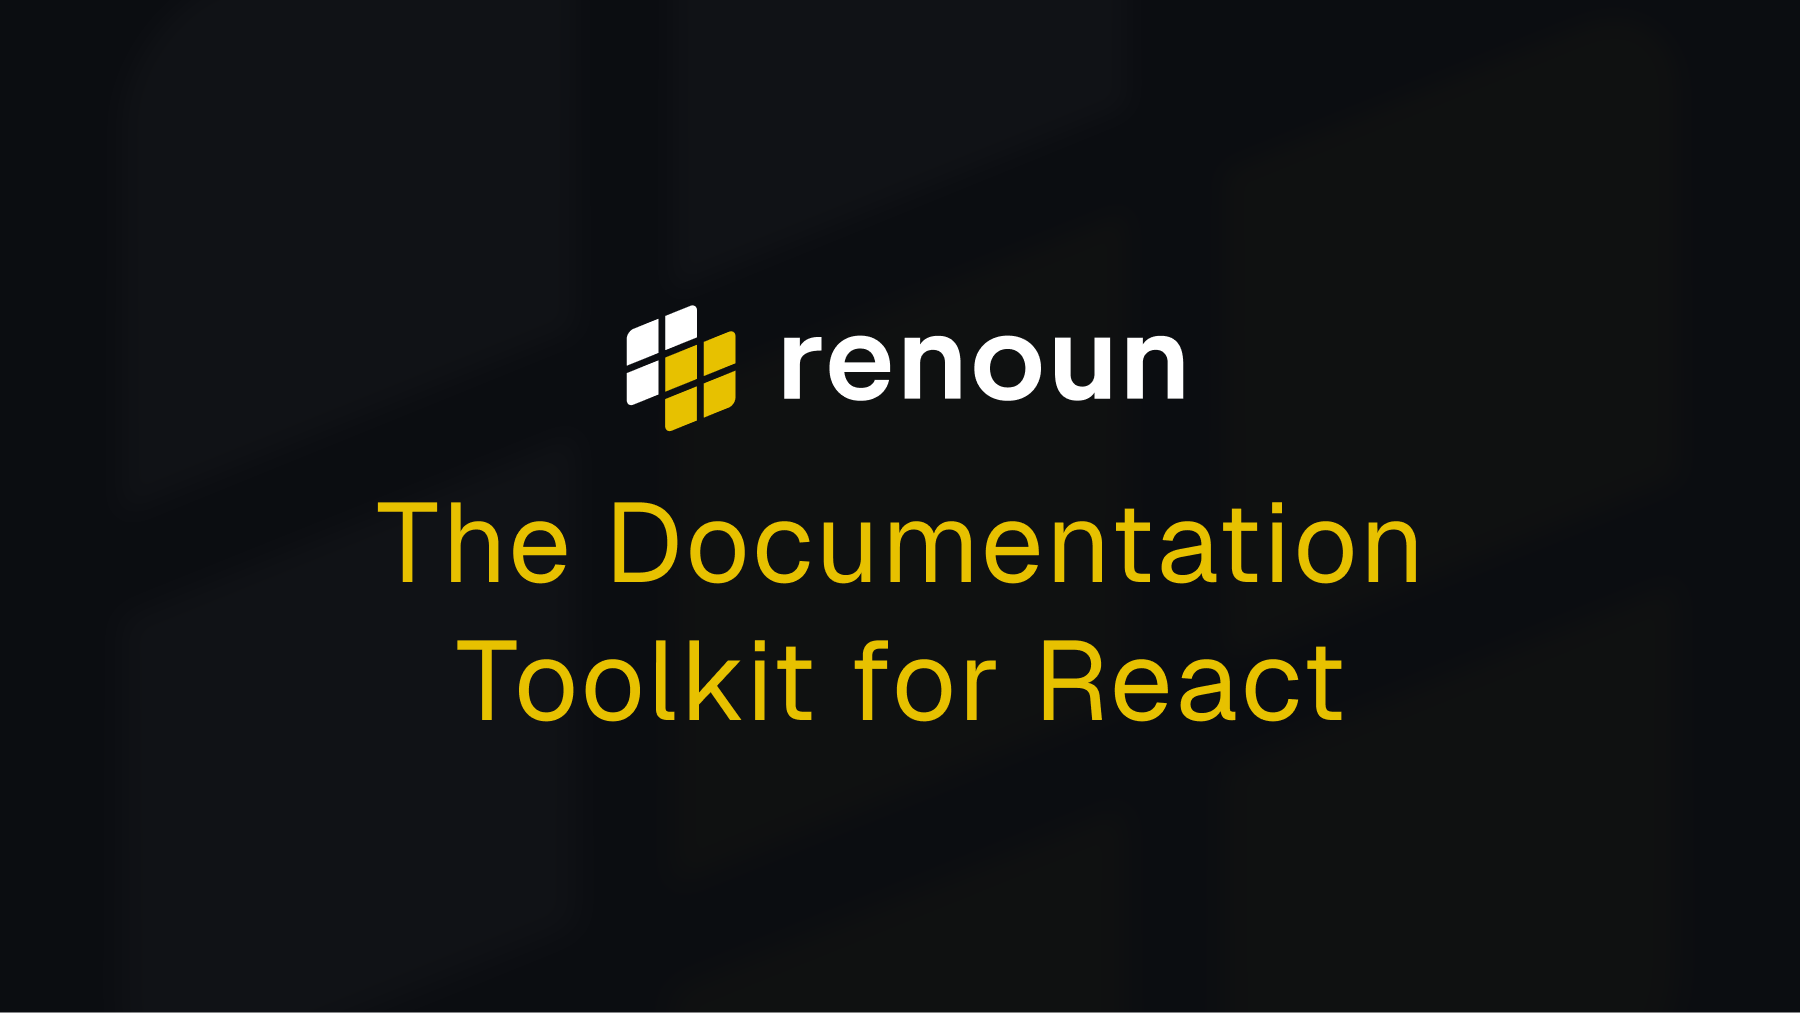
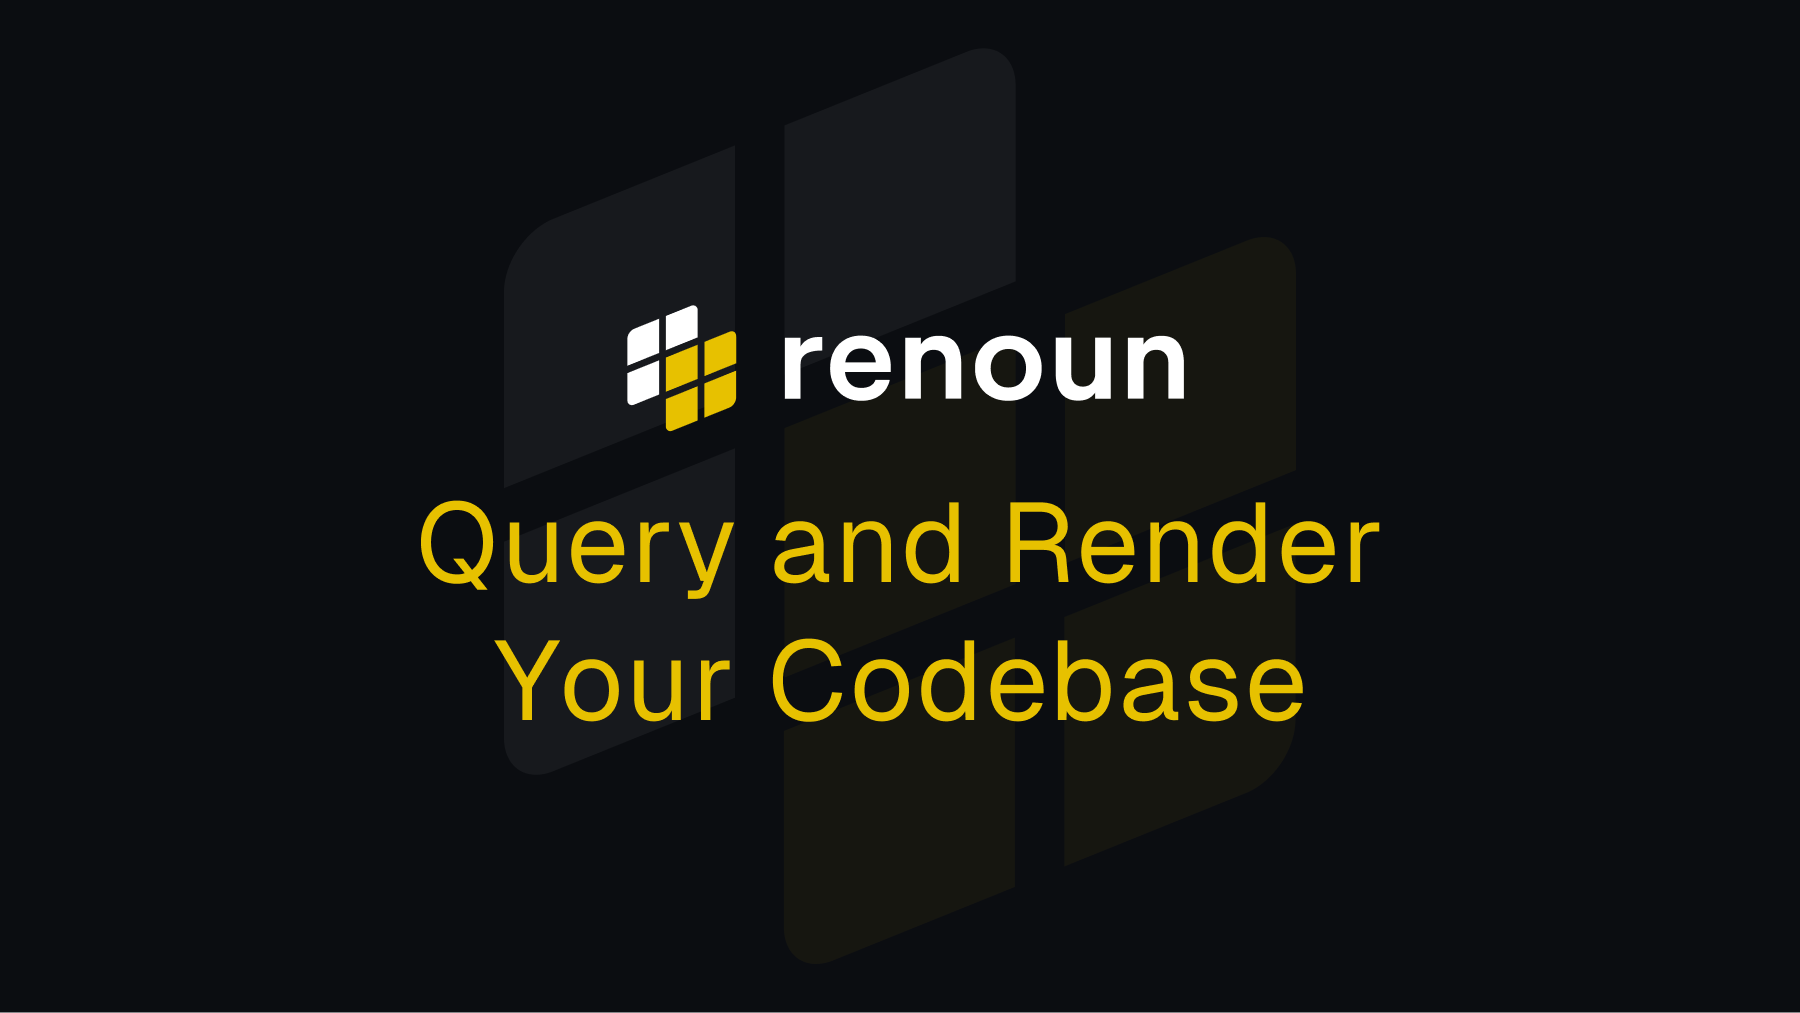
update description

Changed region(s): [[0.2178, 0.4896, 0.8089, 0.612], [0.2489, 0.612, 0.7467, 0.7345], [0.3422, 0.3366, 0.3733, 0.3672]]

diff --git a/apps/site/app/layout.tsx b/apps/site/app/layout.tsx
@@ -4,7 +4,7 @@ import { RootProvider, Script } from 'renoun'
 import { GeistSans } from 'geist/font/sans'
 
 export const metadata = {
-  title: 'renoun - Query Structured Data from Your Codebase',
+  title: 'renoun - Query and Render Your Codebase',
   description: `Turn your JavaScript, TypeScript, Markdown, and MDX into reusable structured data for blogs, docs, and presentations.`,
 } satisfies Metadata
 

diff --git a/packages/renoun/README.md b/packages/renoun/README.md
@@ -5,7 +5,7 @@
       <img src="/packages/renoun/images/logo-light.png" alt="renoun" width="180"/>
     </picture>
   </a>
-  <h2>Query Structured Data from Your Codebase</h2>
+  <h2>Query and Render Your Codebase</h2>
   <p>
      Turn your JavaScript, TypeScript, Markdown, and MDX<br>into reusable structured data for blogs, docs, and presentations<br>so your content always matches what’s in your codebase.
   </p>
